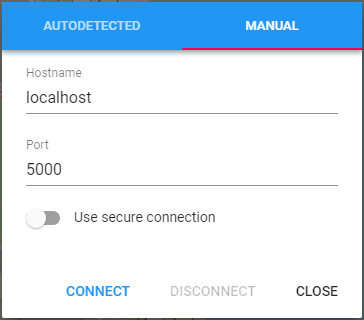
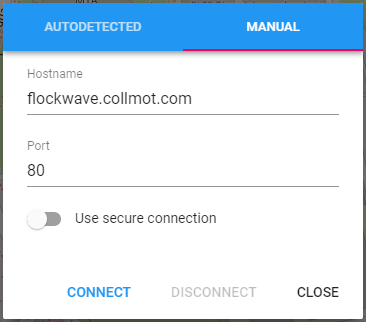
First printed version (v1.2)

diff --git a/source/functional-requirements_hu.tex b/source/functional-requirements_hu.tex
@@ -1,0 +1,98 @@
+\section{Funkcionális követelmények}
+
+\subsection{Hőtérképes megjelenítés}
+
+A drónokról érkező (numerikus) adatok megjelenítése színes hőtérkép segítségével.
+A jelölő pontok méretei, a köztük lévő távolság, valamint a színskála személyre szabható (lineáris / logaritmikus, a színek határai), továbbá bekapcsolható a rácspontokhoz igazítás, ami egy négyzetrács csúcsaira illeszti a kapott értékeket.
+
+\begin {itemize}
+  \item \textit{Ha} egy hőtérkép réteg aktív és fel van iratkozva egy adott csatornára egy drónon, \textit{amikor} új adat érkezik az érzékelőtől \textit{akkor} az megjelenik a térképen.
+  \item \textit{Ha} már van adat kirajzolva a térképen és aktív az automatikus skálázás, \textit{amikor} egy új szélsőséges érték érkezik, ami a jelenlegi minimum és maximum által meghatározott tartományom kívül esik, \textit{akkor} a korlátok mellett a már meglévő pontok színei is frissülnek.
+\end {itemize}
+
+
+\subsection{Térkép állapotainak (pozíció, forgatás, nagyítás) tárolása és betöltése}
+
+Egy panel, amelyen elmenthetőek, szerkeszthetőek és visszatölthetőek adott nézetek. A tárolt adatok: a középpont koordinátái, az elforgatás szöge, a nagyítás mértéke, valamint a nézet neve.
+
+\begin {itemize}
+  \item \textit{Ha} a felhasználó a kívánt állapotba mozgatta, forgatta és nagyította a térképet, \textit{amikor} a felhasználó rákattint az "Add a new location" lehetőségre, \textit{akkor} az aktuális pozíció, elfordulás és nagyítás rögzítésre kerül és a felugró dialógusablakban felhasználónak lehetősége van átnevezni a létrehozni kívánt bejegyzést és elmenteni, illetve elvetni azt.
+  \item \textit{Ha} a felhasználó már előzőleg elmentett egy térképállapotot, \textit{amikor} a felhasználó kiválasztja ezt a térképállapotot, \textit{akkor} a térkép abba az állapotba mozog, forog és nagyítódik.
+\end {itemize}
+
+
+\subsection{Objektumok betöltése GeoJSON formátumból}
+
+Különböző alakzatok megjelenítése a térképen, például repülési zóna vizualizálására, tereptárgyak kijelölésére.
+
+\begin {itemize}
+  \item \textit{Ha} a felhasználó létrehozott egy GeoJSON réteget és a felkínált szövegdobozba érvényes GeoJSON adatokat másolt, \textit{amikor} a felhasználó megnyomja az "IMPORT GEOJSON" gombot, \textit{akkor} az alkalmazás megjeleníti a leírt objektumokat a térképen.
+  \item \textit{Ha} a felhasználó invalid értéket másolt a szövegdobozba, \textit{amikor} megnyomja az "IMPORT GEOJSON" gombot \textit{akkor} a térképen az előzőleg kirajzolt objektumok maradnak rajta.
+\end {itemize}
+
+
+\subsection{Parancsok kiadása drónoknak menüsorról és jobb egérgombra felugró ablakból}
+
+Felszállás, leszállás, visszatérés illetve egyéb parancsok és üzenetek küldése drónoknak. Ha vannak kiválasztott egységek, akkor a menüsoron lévő akciók az összes jelenleg kijelölt kopterre hatással vannak, egy kopterre jobb egérgombbal kattintva pedig egy felugró ablakban válnak elérhetővé ugyanezek a lehetőségek arra az adott drónra vonatkozóan.
+
+\begin {itemize}
+  \item \textit{Ha} vannak kijelölve drónok, \textit{amikor} a felhasználó jobb egérgombbal kattint a térképen egy üres területen, \textit{akkor} egy felugró menü lehetőséget biztosít parancs kiadására a kijelölt drónoknak.
+  \item \textit{Ha} vannak kijelölve drónok, \textit{amikor} a felhasználó jobb egérgombbal kattint a térképen egy drón felett, \textit{akkor} a drón hozzáadódik a kijelöléshez és egy felugró menü lehetőséget biztosít parancs kiadására a kijelölt drónoknak.
+  \item \textit{Ha} vannak kijelölve drónok, \textit{amikor} a felhasználó kiválaszt egy parancsot az eszköztárról vagy pedig a felugró menüből, \textit{akkor} a drónok végrehajtják az adott parancsot.
+\end {itemize}
+
+
+\subsection{Állapotüzenetek (információk, figyelmeztetések, hibák) kijelzésére alkalmas panel}
+
+Napló vezetése az alkalmazás különböző üzeneteiről, valamint ennek megjelenítése egy sorba rendezhető, szűrhető táblázatban.
+
+\begin {itemize}
+  \item \textit{Ha} egy esemény naplóbejegyzést eredményez, \textit{amikor} lezajlik az adott esemény, \textit{akkor} az általa készített bejegyzés eltárolódik a naplóban.
+  \item \textit{Ha} aktív a felületen a naplóbejegyzések kijelzésére alkalmas panel, \textit{amikor} új bejegyzés érkezik, \textit{akkor} az azonnal automatikusan megjelenik a táblázatban.
+  \item \textit{Ha} aktív a felületen a naplóbejegyzések kijelzésére alkalmas panel, \textit{amikor} a felhasználó megnyomja a rendezés gombot valamelyik oszlop fejsorában, \textit{akkor} a sorok az ahhoz az oszlophoz tartozó értékük szerinti sorrendben jelennek meg.
+  \item \textit{Ha} aktív a felületen a naplóbejegyzések kijelzésére alkalmas panel, \textit{amikor} a felhasználó szűrést alkalmaz valamelyik oszlopra, \textit{akkor} a táblázatban csak a szűrési feltételnek eleget tevő sorok maradnak láthatóak.
+\end {itemize}
+
+
+\subsection{Drónok színkódolása predikátumok alapján}
+
+A drónok alapértelmezetten feketén jelennek meg, további színekhez pedig megadhatóak JavaScript függvénytörzsek, melyek paraméterül egy drón nevét kapják.
+Amennyiben egy bizonyos színhez megadott feltétel, valamely azonosítót kapva paraméterként, igazra értékelődik ki, akkor az adott drón a térképen olyan színnel jelenik meg.
+Például \verb|blue: 'Number(id) < 10'| esetén az 5-ös azonosítójú drón kék lesz, a 15-ös azonban nem.
+
+\begin {itemize}
+  \item \textit{Ha} egy adott drón azonosítója egyik színhez megadott predikátumnak sem tesz eleget, \textit{amikor} a térképre rajzolódik, \textit{akkor} a hozzá tartozó piktogram színe fekete.
+  \item \textit{Ha} a felhasználó bevisz egy érvényes predikátumot az egyik színhez tartozó mezőbe, \textit{amikor} megnyomja az "APPLY CHANGES" gombbot, \textit{akkor} az olyan drónok, amelyek megfelelnek ennek a predikátumnak (és semelyik másiknak sem), az adott színű ikonnal jelennek meg a térképen.
+\end {itemize}
+
+
+\subsection{Drónok részletes aktuális állapotát mutató panel}
+
+Egy táblázat, amiben minden drónhoz egy-egy sor tartozik, melyben a rá vonatkozó részletes információk (akkufeszültség, aktuálisan futó algoritmus / koreográfia, stb.) láthatóak.
+
+\begin {itemize}
+  \item \textit{Ha} a drónokról ismert aktuális információk megjelenítésére szolgáló panel aktív, \textit{amikor} új adat érkezik valamelyik drónról \textit{akkor} a táblázat megfelelő sora frissül.
+\end {itemize}
+
+
+\subsection{Kliens állomás pozíciójának megjelenítése a térképen geolokáció alapján}
+
+Amennyiben a kliens eszköz rendelkezik geolokáció szolgáltatással, akkor a megfelelő réteg hozzáadását követően megjelenik az aktuális helyzete és iránya a térképen.
+A funkció bekapcsolását követően a jelölő pozíciója és állása folyamatosan frissül az eszköz által rendelkezésre bocsátott információk alapján.
+
+\begin {itemize}
+  \item \textit{Ha} az alkalmazást futtató eszköz támogatja a geolokáció szolgáltatást, \textit{amikor} a felhasználó létrehoz egy "Own location" réteget, \textit{akkor} a jelölő felkerül a térkép megfelelő pontjára.
+  \item \textit{Ha} van aktív "Own location" típusú réteg és az eszköz támogatja a geolokáció lekérdezését, \textit{amikor} a felhasználó pozíciója megváltozik, \textit{akkor} a jelölő is követi az elmozdulást.
+  \item \textit{Ha} van aktív "Own location" típusú réteg és az eszköz a felhasználó pozícióján kívül orientációra vonatkozó adatokat is elérhetővé tesz, \textit{amikor} az eszköz iránya megváltozik, \textit{akkor} a jelölő is követi az elfordulást.
+\end {itemize}
+
+
+\subsection{Billentyűkombinációkkal történő vezérlés}
+
+Az alkalmazás bizonyos funkcióinak elérése a billentyűzet segítségével, például kijelölés kezelése, parancs küldése drónoknak, dialógusablakok megnyitása.
+Súgó elérése a billentyűkombinációk megtekintésére.
+
+\begin {itemize}
+  \item \textit{Ha} semmilyen beviteli mező sem aktív, \textit{amikor} a felhasználó megnyomja a "?" karakter begépelésére szolgáló billentyűkombinációt, \textit{akkor} megjelenik az összes elérhető gyorsbillentyűt tartalmazó táblázat.
+  \item \textit{Ha} semmilyen beviteli mező sem aktív, \textit{amikor} a felhasználó megnyom egyet az elérhető gyorsbillentyűk közül, \textit{akkor} végrehajtódik a hozzá tartozó parancs.
+\end {itemize}

diff --git a/source/testing.tex b/source/testing.tex
@@ -22,18 +22,19 @@ csoportosítva.
 
 \begin{itemize}
 
-  \item Aktuális pozíció eltárolására szolgáló listaelemre kattintva megnyílik
+  \item Az aktuális pozíció eltárolására szolgáló listaelemre kattintva megnyílt
   az adatainak szerkesztésére szolgáló dialógusablak, melyben a bejegyzés neve
-  megadható, a mentés véglegesíthető vagy pedig megszakítható. A mentést
-  választva a bejegyzés hozzáadódik a lista aljára.
+  megadható, a mentés véglegesíthető vagy pedig megszakítható volt. A mentést
+  választva a bejegyzés hozzáadódott a lista aljára.
 
-  \item Egy elmentett pozícióhoz tartozó listaelemre kattintva a térkép betölti
-  a hozzá tartozó állapotot.
+  \item Egy elmentett pozícióhoz tartozó listaelemre kattintva a térkép
+  betöltötte a hozzá tartozó állapotot.
 
   \item Egy elmentett pozíció listaeleme melletti fogaskerék ikonra kattintva
-  megnyílik az annak szerkesztésére szolgáló dialógusablak, melyből
-  módosíthatóak a hozzá tartozó paraméterek, a végrehajtott módosítások
-  elmenthetők vagy pedig elvethetők, továbbá a teljes bejegyzés is törölhető.
+  megnyílt az annak szerkesztésére szolgáló dialógusablak, melyből
+  módosíthatóak voltak a hozzá tartozó paraméterek, a végrehajtott módosítások
+  elmenthetők vagy pedig elvethetők voltak, továbbá a teljes bejegyzés is
+  törölhető volt.
 
 \end{itemize}
 
@@ -43,15 +44,17 @@ csoportosítva.
 \begin{itemize}
 
   \item Hibás tartalom esetén az "IMPORT GEOJSON" gomb megnyomását követően a
-  képernyő alsó szélén felugró üzenet jelzi, hogy helytelen a GeoJSON adat. Az
-  üres mező is hibás adatnak számít, hiszen a nulla hosszúságú sztring nem valid
-  GeoJSON. (A mező kezdeti értéke "\{\}".) A bevitt adat ekkor nem kerül
-  rögzítésre, így a legutolsó valid tartalom marad kirajzolva a térképre.
+  képernyő alsó szélén egy felugró üzenet jelezte, hogy helytelen a GeoJSON
+  adat. (Az üres mezőt kipróbálva az is hibás adatnak számított, hiszen a nulla
+  hosszúságú sztring nem valid GeoJSON. A mező kezdeti értéke "\{\}".) A bevitt
+  adat ekkor nem került rögzítésre, így a legutolsó valid tartalom maradt
+  kirajzolva a térképre.
 
   \item Helyes tartalom esetén az import "IMPORT GEOJSON" gombra kattintva az
-  adat által leírt objektumok megjelennek a térképen a beállított kitöltési és
-  körvonalazási színekkel. Az előzőleg megjelenített objektumok eltűnnek, tehát
-  több különálló adat kirajzolásához több GeoJSON réteg létrehozása szükséges.
+  adat által leírt objektumok megjelentek a térképen a beállított kitöltési és
+  körvonalazási színekkel. Az előzőleg megjelenített objektumok pedig eltűntek.
+  (Tehát több különálló adat kirajzolásához több GeoJSON réteg létrehozása
+  szükséges.)
 
 \end{itemize}
 
@@ -60,16 +63,17 @@ csoportosítva.
 
 \begin{itemize}
 
-  \item Amennyiben egy drón sincs kijelölve, akkor a jobb klikk menüben és az
-  eszköztárban is inaktívak (tehát szürkék és nem kattinthatóak) a gombok.
+  \item Amennyiben egy drón sem volt kijelölve, akkor a jobb klikk menüben és az
+  eszköztárban is inaktívak (tehát szürkék és nem kattinthatóak) voltak a
+  gombok.
 
-  \item Legalább egy kijelölt drón esetén a gombok aktívvá válnak.
+  \item Legalább egy kijelölt drón esetén a gombok aktívvá váltak.
 
   \item Egy parancshoz tartozó gombra történő kattintás után a drónok
-  végrehajtják a kapott parancsot (a teszt szerver által szimulált drónok csak a
-  leszállás és felszállás parancsok végrehajtását támogatják), az eseménynaplóba
-  pedig bejegyzés kerül, amikor visszajelzés érkezik a szervertől, hogy
-  megérkezett hozzá az utasítás kiadását kezdeményező üzenet.
+  végrehajtották a kapott parancsot (a teszt szerver által szimulált drónok csak
+  a leszállás és felszállás parancsok végrehajtását támogatják), az
+  eseménynaplóba pedig bejegyzés került, amikor visszajelzés érkezett a
+  szervertől, hogy megérkezett hozzá az utasítás kiadását kezdeményező üzenet.
 
 \end{itemize}
 
@@ -78,7 +82,7 @@ csoportosítva.
 
 \begin{itemize}
 
-  \item Új állapotüzenet érkezésekor a táblázat megjeleníti a bejegyzést.
+  \item Új állapotüzenet érkezésekor a táblázat megjelenítette a bejegyzést.
 
 \end{itemize}
 
@@ -87,16 +91,18 @@ csoportosítva.
 
 \begin{itemize}
 
-  \item Üresen hagyott mező esetén a szín egyik drónra sem érvényesül.
+  \item Üresen hagyott mező esetén a szín egyik drónra sem érvényesült.
 
   \item Helyesen kitöltött mező esetén az "APPLY CHANGES" gomb (vagy az Enter
-  billentyű) megnyomása után a szín a feltételt teljesítő drónokra érvényesül.
+  billentyű) megnyomása után a szín azokra a feltételt teljesítő drónokra
+  érvényesült, amelyeket nem írt felül más predikátumok teljesülése.
 
   \item Hibásan kitöltött mező esetén az "APPLY CHANGES" gomb (vagy az Enter
   billentyű) megnyomását követően a hibás mező címkéje és alsó szegélye piros
-  színre vált, a hiba szövege bekerül az eseménynaplóba. A bevitt érték nem
-  kerül rögzítésre, tehát a szín azokra a drónokra marad érvényes, amelyek a
-  mező által előzőleg tartalmazott legutolsó valid predikátumot teljesítik.
+  színűre váltott, a hiba szövege pedig bekerült az eseménynaplóba. A bevitt
+  érték nem került rögzítésre, tehát a szín azokra a drónokra maradt érvényes,
+  amelyek a mező által előzőleg tartalmazott legutolsó valid predikátumot
+  teljesítették.
 
 \end{itemize}
 
@@ -105,7 +111,7 @@ csoportosítva.
 
 \begin{itemize}
 
-  \item A táblázat helyesen kijelzi a drónokról jelenleg ismert információkat.
+  \item A táblázat helyesen kijelezte a drónokról jelenleg ismert információkat.
 
 \end{itemize}
 
@@ -114,22 +120,22 @@ csoportosítva.
 
 \begin{itemize}
 
-  \item Ha nem érhető el pozícióra vonatkozó adat (tesztelve asztali
+  \item Ha nem volt elérhető pozícióra vonatkozó adat (például asztali
   böngészőben letiltva a geolokációt, illetve mobiltelefonon kikapcsolva a
-  GPS-t), akkor a jelölő nem kerül rá a térképre és az eseménynaplóban
-  megjelenik egy erre vonatkozó bejegyzés.
+  GPS-t), akkor a jelölő nem került rá a térképre és az eseménynaplóban
+  megjelent egy erre vonatkozó bejegyzés.
   \begin{figure}[H]
     \includegraphics[width=\textwidth]{phone_gps_denied.png}
     \caption{Mobil eszköz kikapcsolt GPS-el}
     \label{fig:phone_gps_denied}
   \end{figure}
 
-  \item Ha elérhető geolokáció szolgáltatás, akkor a jelölő felkerül a térkép
-  megfelelő pontjára, valamint a pozíció megváltozásakor frissül és követi az
-  elmozdulást.
+  \item Ha elérhető volt a geolokáció szolgáltatás, akkor a jelölő felkerült a
+  térkép megfelelő pontjára, valamint a pozíció megváltozásakor frissült és
+  követte az elmozdulást.
 
-  \item Ha elérhető mágneses orientációérzékelő is az eszközben, akkor a jelölő
-  követi annak elfordulását.
+  \item Ha mágneses orientációérzékelő is elérhető volt az eszközben
+  (mobiltelefonon tesztelve), akkor a jelölő követte annak elfordulását.
   (Ez a funkció már előzőleg működőképes volt, azonban hosszú időn át nem került
   sor az ellenőrzésére abból az okból, hogy mágneses érzékelő általában csak
   mobiltelefonokban van. Laptopról legfeljebb csak emulálni lehet, a telefonról
@@ -157,7 +163,7 @@ csoportosítva.
 
 \begin{itemize}
 
-  \item Minden billentyűkombináció megfelelően működik.
+  \item Minden billentyűkombináció megfelelően működött.
 
 \end{itemize}
 

diff --git a/source/requirements.tex b/source/requirements.tex
@@ -5,10 +5,12 @@ rendelkezik Wi-Fi rádióval, vagy csatlakoztatva van hozzá XBee adó-vevő.
 Szoftver területén megfelelő Wi-Fi vagy XBee driver, illetve a szerver
 kódjának futtatásához \verb|python 3.6| a követelmény.
 
-A kliens oldal kódjának lefordítása \verb|nodejs| által zajlik, a függőségek
-kezelését az \verb|npm| csomagkezelő végzi, az elkészült állomány egy
-webszerverről kiszolgálva egy böngészőből érhető el, vagy pedig \verb|electron|
-segítségével becsomagolva önállóan futtatható programként.
+A kliens oldal kódjának lefordítása \verb|nodejs| által zajlik (v8.9.0-es
+verzión tesztelve), a függőségek kezelését az \verb|npm| csomagkezelő végzi,
+továbbá a módosított csomagok github-ról történő installációja miatt \verb|git|
+kliens is szükséges. Az elkészült állomány egy webszerverről kiszolgálva egy
+böngészőből érhető el, vagy pedig \verb|electron| segítségével becsomagolva
+önállóan futtatható programként.
 
 A forráskód birtokában, annak gyökérmappájában kiadva az \verb|"npm install"|
 parancsot, telepíthetőek a függőségek. Ezt követően az \verb|"npm start"|

diff --git a/source/user-documentation.tex b/source/user-documentation.tex
@@ -16,8 +16,6 @@ lehetséges az elérési cím és port (alapértelmezetten 5000) manuális megad
 illetve az SSDP (Simple Service Discovery Protocol) hálózati felderítési
 protokoll segítségével.
 
-
-
 \section{A felület kezelése}
 
 \subsection{Kezdeti állapot}
@@ -40,6 +38,10 @@ a felületre helyezve.
 A szerverhez való csatlakozásához meg kell adni annak elérési adatait. Ezt a
 \ref{fig:initial_state}. ábra /\circled{2} jelölésű gombján történő kattintás
 után megjelenő dialógusablakban tehetjük meg.
+
+(Alapvető tesztelés tehát a \verb|flockwave.collmot.com| cím \verb|80|-as
+portján futó szerveren lehetséges. Az ehhez a szerverhez történő első
+csatlakozás esetenként pár másodpercbe telhet.)
 
 \begin{figure}[H]
   \center

diff --git a/source/main.tex b/source/main.tex
@@ -54,7 +54,9 @@
 
 \input{./title-page.tex}
 
-\includepdf[pages={-}]{../Donko_Istvan_W8CCTI_PTI_Bsc_temabejelento_lap_szakdolgozat_final.pdf}
+% \includepdf[pages={-}]{../Donko_Istvan_W8CCTI_PTI_Bsc_temabejelento_lap_szakdolgozat_final.pdf}
+Ennek a lapnak a helyére kell bekötni a témabejelentőt.
+\newpage
 
 \setcounter{page}{1}
 % \pagenumbering{gobble}
@@ -77,7 +79,7 @@
 
 \newpage\part{Fejlesztői dokumentáció}
 
-\input{./functional-requirements.tex}
+\input{./functional-requirements_hu.tex}
 \input{./used-libraries.tex}
 
 \input{./feature-implementations.tex}

diff --git a/source/title-page.tex b/source/title-page.tex
@@ -58,7 +58,7 @@
 
     \vfill
 
-    \large{2018, Budapest}
+    \large{Budapest, 2018}
   \end{center}
   \thispagestyle{empty}
 \end{titlepage}
